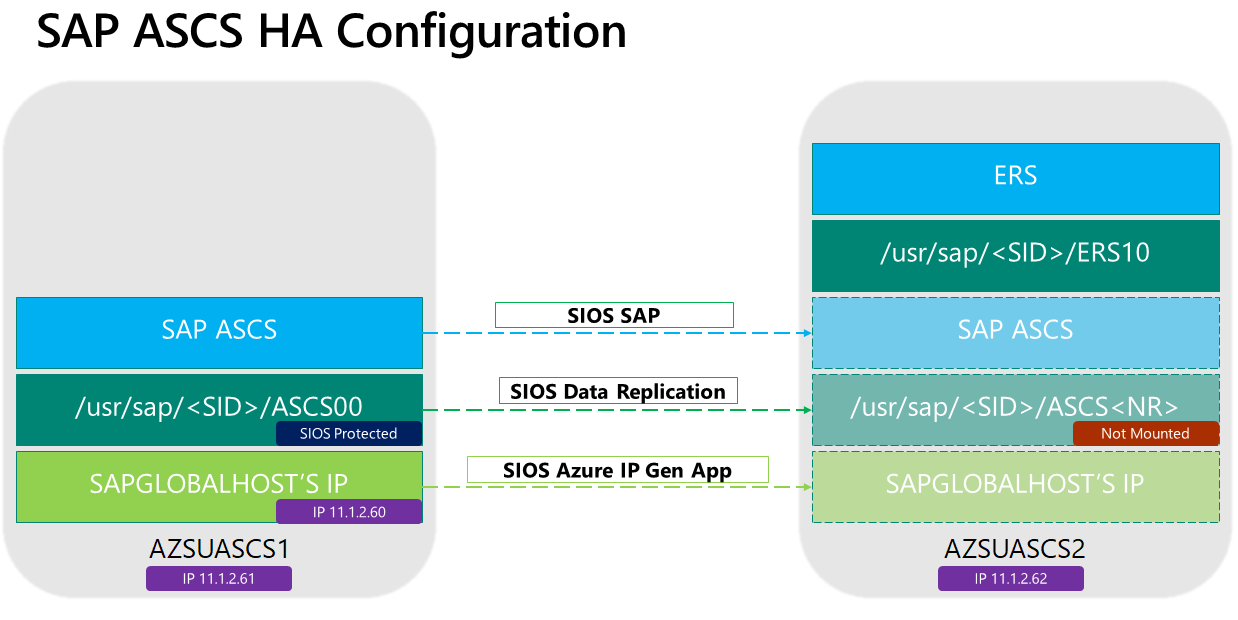
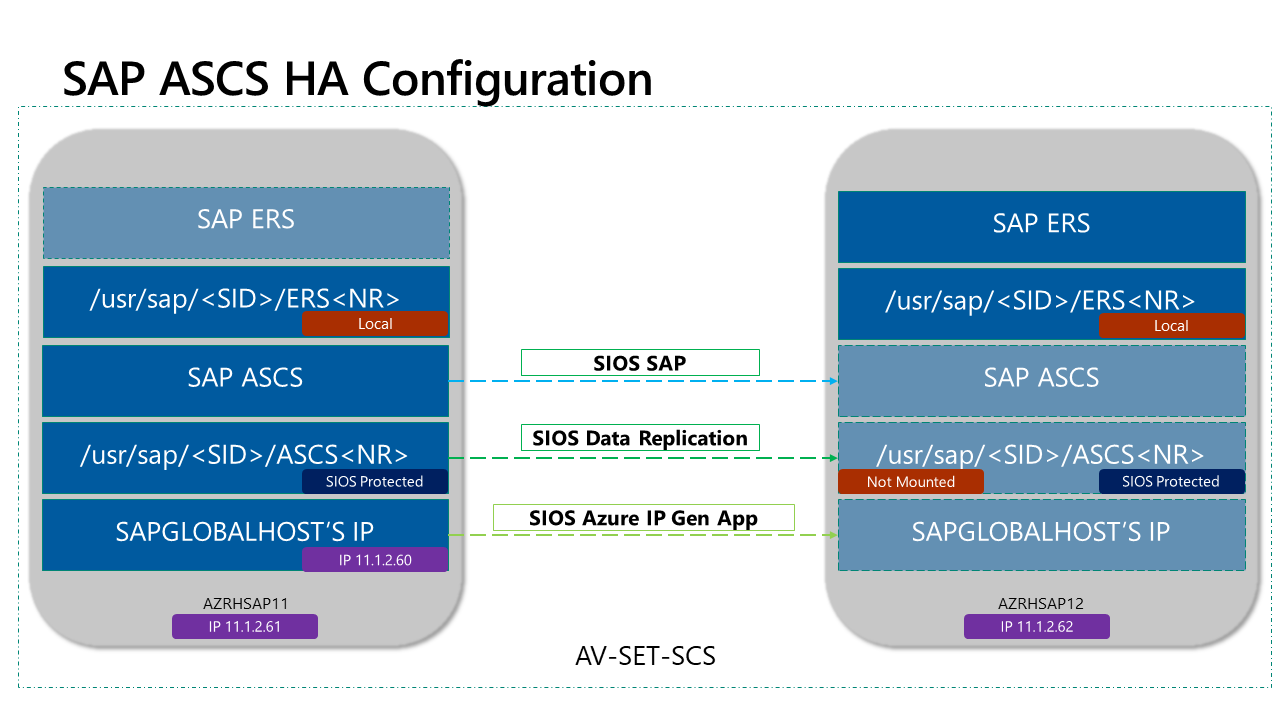
b

diff --git a/HA-for-SAP-(A)SCS.md b/HA-for-SAP-(A)SCS.md
@@ -43,13 +43,13 @@
 
 High availability(HA) for SAP Netweaver central services requires shared storage. This document describes on achieve High Availability on Linux virtual machine without using shared storage and by using SIOS DataKeeper and SIOS LikeKeeper of SIOS Protection Suite.
 
-![ASCS](/99_images/Architecture_Diragram_ASCS.jpg)  
+![ASCS](/99_images/Architecture_Diragram_ASCS.png)  
 
-Each pair of servers are greouped into respective Avialbility Sets as per the above Architecture Diagram. And the solution can be used in Availability Zone Scenario too as long as Synchronous Data Replication is possilbe. Asynchronous Data Replication is supported only for Disaster Recovery Scenarios
+Each pair of servers are grouped into respective Avialbility Sets as per the above Architecture Diagram. And the solution can be used in Availability Zone Scenario too as long as Synchronous Data Replication is possilbe. Asynchronous Data Replication is supported only for Disaster Recovery Scenarios
 
 ![Avilability Sets](/99_images/Availability-Sets.png)
 
-![HANA-DB](/99_images/ASCS1.png)
+![ASCS-SIOS](/99_images/ASCS.png)
 
 SAP NetWeaver ASCS, SAP NetWeaver SCS, SAP NetWeaver ERS, and the SAP HANA database use virtual hostname and virtual IP addresses. SIOS Enhanced IP GenApp is used to failover virtual IP address (its not mandatory to use it). Azure [Load balancer](https://docs.microsoft.com/en-us/azure/load-balancer/load-balancer-overview) can also be used.  
   
@@ -62,6 +62,8 @@ The following list shows the configuration of the (A)SCS and ERS IP addresses & 
    |SAP App Pool   | azsusap1     | 11.1.2.53  |            |            |
    |               | azsusap2     | 11.1.2.54  |            |            |
    |SIOS Witness   | azsusapwit1  | 11.1.2.65  |            |            |
+
+
 
 ## 2. Provission SAP (A)SCS, ERS and Witness Infrastructure
 
@@ -376,5 +378,16 @@ Pleas find the screenshots on [how to create SAP A(SCS) Resource](Create-sap-asc
   ```
 
 ## Fail-over Testing
+
+Profile Directory
+
+```console
+-rw-r--r-- 1 s4dadm sapsys  788 May  1 20:50 DEFAULT.PFL
+-rw-r--r-- 1 s4dadm sapsys 4072 May  1 21:15 S4D_ASCS00_S4DASCS
+-rw-r--r-- 1 s4dadm sapsys 2259 May  2 01:06 S4D_ERS10_azsuascs1
+-rw-r--r-- 1 s4dadm sapsys 2259 May  1 21:15 S4D_ERS10_azsuascs2
+-rw-r----- 1 s4dadm sapsys 5186 May  2 01:08 S4D_D00_azsusap1
+-rw-r----- 1 s4dadm sapsys 3333 May  2 01:08 S4D_D00_azsusap2
+```
 
 Please refer the screenshots on [testing (A)SCS fail-over testing](SIOS-ascs-Failover-Testing.md)
